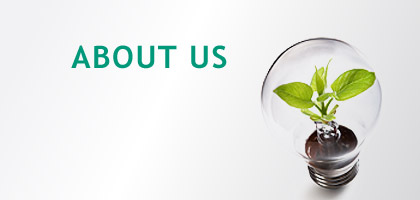
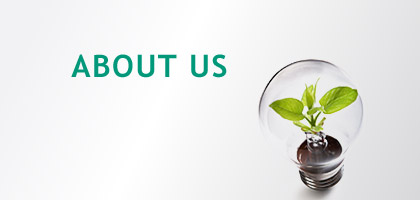
首頁四小圖更新

Changed region(s): [[0.5881, 0.18, 0.9286, 1.0], [0.1548, 0.21, 0.5571, 0.39]]

diff --git a/Work.WebProj/Content/sass/index.scss b/Work.WebProj/Content/sass/index.scss
@@ -127,6 +127,8 @@ $btn-padding:       12px 20px;
         // letter-spacing: 2px;
         // text-align: left;
 
+        background-position: center;
+        background-repeat: no-repeat;
         display: block;
         height: 156px;
         // padding-top: 32px;

diff --git a/Work.WebProj/Content/css/index.css b/Work.WebProj/Content/css/index.css
@@ -809,6 +809,8 @@ body {
     .list-inline {
       margin-top: 20px; } }
   .list-inline a {
+    background-position: center;
+    background-repeat: no-repeat;
     display: block;
     height: 156px; }
     @media (min-width: 29.9375em) and (max-width: 61.1875em) {
